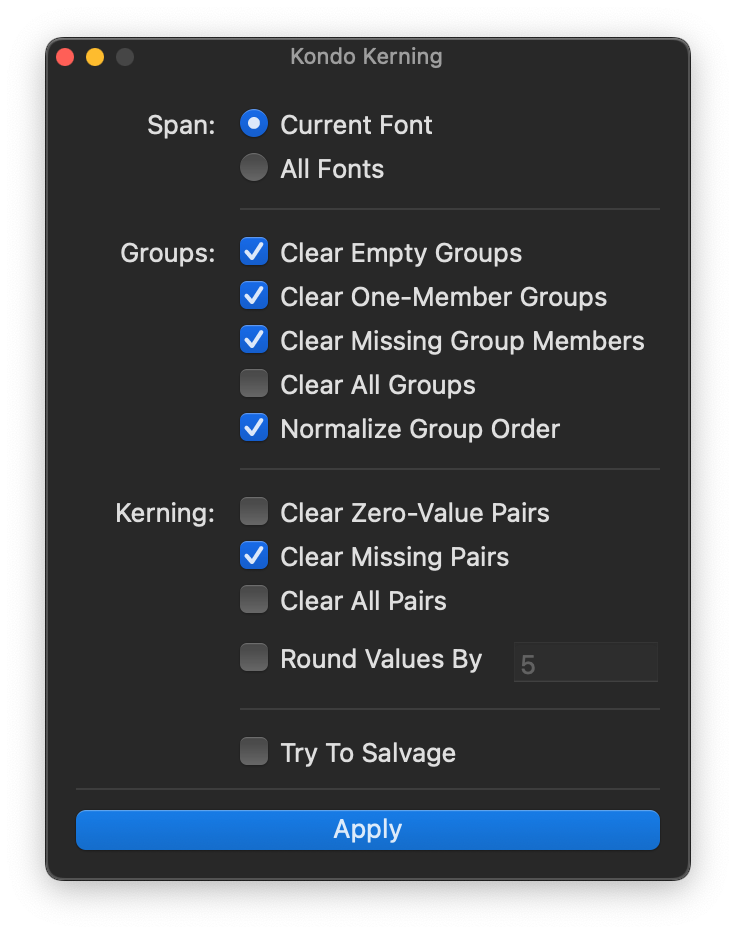
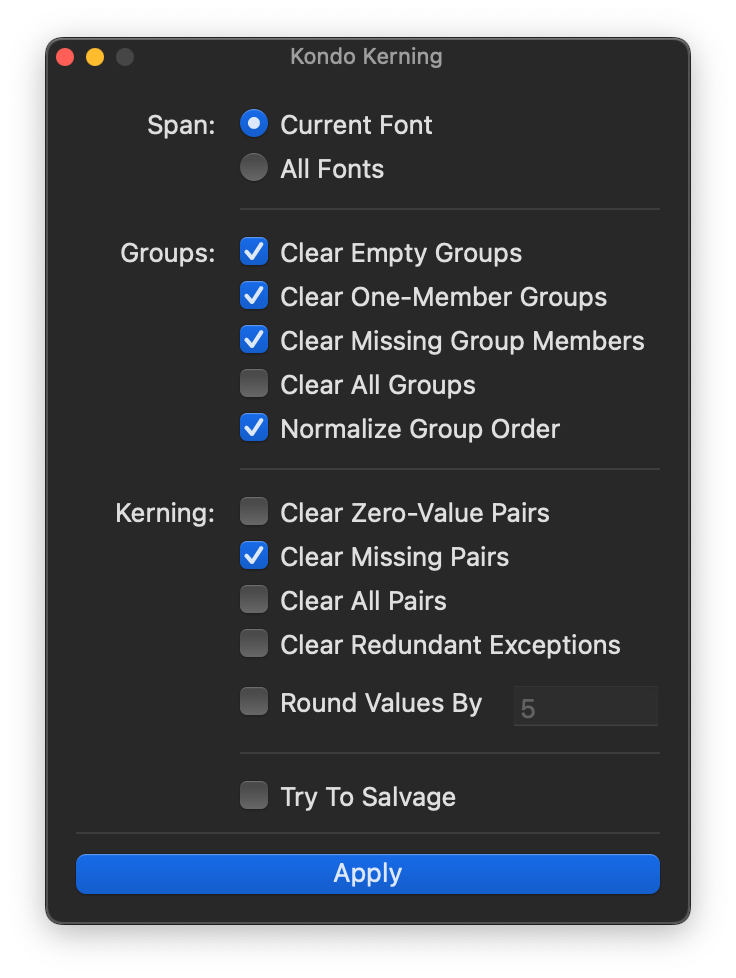
v1.0 public
- Clear redundant exceptions. Fix https://github.com/ryanbugden/Kondo-Kerning/issues (Thanks https://github.com/typesupply )
- Check single member exists in font before flattening it
- Remember previous window settings
- Improve log
- Update docs
- Version up

diff --git a/source/lib/tools.py b/source/lib/tools.py
@@ -7,31 +7,50 @@ def _kondo_round(x, base=5):
 
 
 def _is_exception(font, pair):
+    """
+    Returns a tuple of booleans, representing on
+    each side whether it’s an exception.
+    """
+    exceptions = []
     for name, groups in zip(
         pair,
         (font.groups.side1KerningGroups, font.groups.side2KerningGroups),
     ):
         # If the side is not a group, and it's IN a group, it's an exception
-        if name not in font.groups and any(
+        is_exception = name not in font.groups and any(
             name in members for members in groups.values()
-        ):
-            return True
-    return False
+        )
+        exceptions.append(is_exception)
+
+    return tuple(exceptions)
+
+
+def _get_groups_for_glyph(font, glyph_name):
+    """
+    Returns a tuple of two groups for a given glyph.
+    If it doesn’t have a group on a given side, returns None.
+    """
+    group_names = font.groups.findGlyph(glyph_name)
+    side_1, side_2 = None, None
+    for group_name in group_names:
+        if group_name in font.groups.side1KerningGroups:
+            side_1 = group_name
+        elif group_name in font.groups.side2KerningGroups:
+            side_2 = group_name
+
+    return side_1, side_2
 
 
 def _resolve_pair(font, pair, salvage=True):
     resolved = []
-
     # Keep valid names; try recovering invalid groups as glyphs.
     for name in pair:
         is_group = name.startswith("public.kern")
-
         # Check validity of group name
         if is_group:
             valid = name in font.groups and any(
                 member in font for member in font.groups[name]
             )
-
         # Check validity of glyph name
         else:
             valid = name in font
@@ -40,7 +59,6 @@ def _resolve_pair(font, pair, salvage=True):
             continue
         if not salvage or not is_group:
             return None
-
         # Try to convert the group name to a glyph name
         parts = name.split(".", 2)
         if len(parts) != 3 or parts[2] not in font:
@@ -105,6 +123,7 @@ def _process_kerning(
     clear_zero_kerning=False,
     clear_missing_kerning=True,
     clear_all_kerning=False,
+    clear_redundant_exceptions=False,
     round_value=None,
     salvage=False,
     report=True,
@@ -131,15 +150,15 @@ def _process_kerning(
                 continue
 
             if replacement is None:
-                log(f"\t🫧 Kerning: Deleting invalid pair {pair}.")
+                log(f"\t🫧 Deleting invalid pair {pair}.")
             elif replacement in font.kerning:
                 log(
-                    f"\t🫧 Kerning: Deleting {pair}. "
+                    f"\t🫧 Deleting {pair}. "
                     f"Keeping existing value for {replacement}."
                 )
             else:
                 font.kerning[replacement] = value
-                log(f"\t🔀 Kerning: Reassigning {pair} → {replacement}.")
+                log(f"\t🔀 Reassigning {pair} → {replacement}.")
 
             del font.kerning[pair]
 
@@ -152,15 +171,62 @@ def _process_kerning(
             for pair, value in list(font.kerning.items()):
                 font.kerning[pair] = _kondo_round(value, round_value)
 
+    if clear_redundant_exceptions:
+        # Redundant exception logic by Tal Leming and reformatted for Kondo Kerning."
+        log(f"👀 Kerning: Looking for redundant exceptions.")
+
+        for pair in list(font.kerning.keys()):
+            if pair not in font.kerning:
+                continue
+            side_1, side_2 = pair
+            exceptions = _is_exception(font, pair)
+            if not any(exceptions):
+                continue
+            value = font.kerning[pair]
+            priority_key = None
+            # Both sides are exceptions
+            if all(exceptions):
+                side_1_group, side_2_group = (
+                    _get_groups_for_glyph(font, side_1)[0],
+                    _get_groups_for_glyph(font, side_2)[1],
+                )
+                if (side_1, side_2_group) in font.kerning:
+                    priority_key = (side_1, side_2_group)
+                elif (side_1_group, side_2) in font.kerning:
+                    priority_key = (side_1_group, side_2)
+                elif (side_1_group, side_2_group) in font.kerning:
+                    priority_key = (side_1_group, side_2_group)
+            # First side is an exception
+            elif exceptions[0]:
+                side_1_group = _get_groups_for_glyph(font, side_1)[0]
+                if (side_1_group, side_2) in font.kerning:
+                    priority_key = (side_1_group, side_2)
+            # Second side is an exception
+            elif exceptions[1]:
+                side_2_group = _get_groups_for_glyph(font, side_2)[1]
+                if (side_1, side_2_group) in font.kerning:
+                    priority_key = (side_1, side_2_group)
+            priority_value = (
+                font.kerning[priority_key] if priority_key is not None else None
+            )
+            # Remove exceptions that match their fallback, including implied zero.
+            if value == priority_value or (value == 0 and priority_value is None):
+                log(f"\t🫧 Deleting redundant exception {pair}   Value: {value}.")
+                if priority_key is None:
+                    log("\t\t🪹 No fallback pair.")
+                else:
+                    log(f"\t\t📌 Keeping {priority_key}   Value: {priority_value}.")
+                del font.kerning[pair]
+
     # Clear zero values
     if clear_zero_kerning:
         log(f"👀 Kerning: Looking for zero-value pairs that aren’t exceptions.")
         for pair, value in list(font.kerning.items()):
             if value == 0:
-                if _is_exception(font, pair):
-                    log(f"\t⏭ Kerning: Ignoring {pair}   Value: {value}. (Exception)")
+                if any(_is_exception(font, pair)):
+                    log(f"\t⏭ Ignoring {pair}   Value: {value}. (Exception)")
                 else:
-                    log(f"\t🫧 Kerning: Removing {pair}   Value: {value}.")
+                    log(f"\t🫧 Removing {pair}   Value: {value}.")
                     font.kerning.pop(pair)
 
 
@@ -187,9 +253,7 @@ def _process_groups(
                 if member in font.keys():
                     new_members.append(member)
                 else:
-                    log(
-                        f"\t🫧 Groups: Removing group member {member} from group {group}."
-                    )
+                    log(f"\t🫧 Removing group member {member} from group {group}.")
             font.groups[group] = new_members
 
     # Delete empty groups. If clearing all groups, use this to try and salvage, too.
@@ -198,22 +262,22 @@ def _process_groups(
         for group, members in list(font.groups.items()):
             if any(member in font for member in members):
                 continue
-            log(f"\t🫧 Groups: Deleting group {group}. It was empty...")
+            log(f"\t🫧 Deleting group {group}. It was empty...")
             # Salvage or delete each pair referencing this empty group
             for pair, value in list(font.kerning.items()):
                 if group not in pair:
                     continue
                 replacement = _resolve_pair(font, pair, salvage)
                 if replacement is None:
-                    log(f"\t🫧 Kerning: Deleting invalid pair {pair}.")
+                    log(f"\t🫧 Deleting invalid pair {pair}.")
                 elif replacement in font.kerning:
                     log(
-                        f"\t🫧 Kerning: Deleting {pair}. "
+                        f"\t🫧 Deleting pair {pair}. "
                         f"Keeping existing value for {replacement}."
                     )
                 else:
                     font.kerning[replacement] = value
-                    log(f"\t🔀 Kerning: Reassigning {pair} → {replacement}.")
+                    log(f"\t🔀 Reassigning pair {pair} → {replacement}.")
                 # Always remove the original reference to the empty group
                 font.kerning.pop(pair)
             # Remove the group after its individual pairs are taken care of
@@ -230,10 +294,10 @@ def _process_groups(
     if clear_single_member_groups:
         log(f"👀 Groups: Looking for single-member groups.")
         for group, members in list(font.groups.items()):
-            if len(members) == 1:
+            if len(members) == 1 and members[0] in font:
                 flattened_kerning = _flatten_kerning(font, group)
                 log(
-                    f"\t🫧 Groups: Deleting group {group}.  It had one member. Flattened its kerning:"
+                    f"\t🫧 Deleting group {group}.  It had one member. Flattened its kerning:"
                 )
                 # Show flattened kerning with 2 tabs
                 if report:
@@ -260,7 +324,7 @@ def _process_groups(
             # Update and report only groups whose order changed
             if sorted_members != list(members):
                 font.groups[group] = sorted_members
-                log(f"\t↩ Groups: Sorting members of group {group}.")
+                log(f"\t↩ Sorting members of group {group}.")
 
 
 def kondo_kerning(
@@ -272,6 +336,7 @@ def kondo_kerning(
     normalize_group_order=True,
     clear_zero_kerning=False,
     clear_missing_kerning=True,
+    clear_redundant_exceptions=False,
     clear_all_kerning=False,
     round_value=None,
     salvage=False,
@@ -301,6 +366,7 @@ def kondo_kerning(
         (
             clear_zero_kerning,
             clear_missing_kerning,
+            clear_redundant_exceptions,
             clear_all_kerning,
             round_value is not None,
         )
@@ -309,6 +375,7 @@ def kondo_kerning(
             font,
             clear_zero_kerning=clear_zero_kerning,
             clear_missing_kerning=clear_missing_kerning,
+            clear_redundant_exceptions=clear_redundant_exceptions,
             clear_all_kerning=clear_all_kerning,
             round_value=round_value,
             salvage=salvage,

diff --git a/source/lib/main.py b/source/lib/main.py
@@ -3,9 +3,13 @@
 
 from importlib import reload
 import ezui
+from mojo.extensions import setExtensionDefault, getExtensionDefault
 import tools
 
 reload(tools)
+
+
+EXT_KEY = "com.ryanbugden.kondoKerning"
 
 
 class KondoKerning(ezui.WindowController):
@@ -33,6 +37,7 @@ class KondoKerning(ezui.WindowController):
         > [ ] Clear Zero-Value Pairs         @clearZeroValueKernsCheckbox
         > [X] Clear Missing Pairs            @clearMissingKerningCheckbox
         > [ ] Clear All Pairs                @clearAllKerningCheckbox
+        > [ ] Clear Redundant Exceptions     @clearRedundantExceptionsCheckbox
         > * HorizontalStack
         >> [ ] Round Values By               @roundKerningCheckbox
         >> [_5_]                             @roundValueTextField
@@ -62,36 +67,22 @@ class KondoKerning(ezui.WindowController):
         )
         self.w.getNSWindow().setTitlebarAppearsTransparent_(True)
         self.w.setDefaultButton(self.w.getItem("applyButton"))
-        # All group checkboxes except for All
-        self.group_checkboxes = [
-            self.w.getItem(item)
-            for item in self.w.getItems().keys()
-            if "group" in item.lower()
-            and "checkbox" in item.lower()
-            and "all" not in item.lower()
-        ]
-        # All kern checkboxes except for All
-        self.kern_checkboxes = [
-            self.w.getItem(item)
-            for item in self.w.getItems().keys()
-            if "kern" in item.lower()
-            and "checkbox" in item.lower()
-            and "all" not in item.lower()
-        ]
+
+        # Restore UI values
+        try:
+            self.w.setItemValues(
+                getExtensionDefault(EXT_KEY, fallback=self.w.getItemValues())
+            )
+        except KeyError:
+            pass
+
         self.roundKerningCheckboxCallback(self.w.getItem("roundKerningCheckbox"))
 
     def started(self):
         self.w.open()
 
-    # # Automatically uncheck other boxes
-    # def clearAllGroupsCheckboxCallback(self, sender):
-    #     if sender.get():
-    #         for checkbox in self.group_checkboxes:
-    #             checkbox.set(False)
-    # def clearAllKerningCheckboxCallback(self, sender):
-    #     if sender.get():
-    #         for checkbox in self.kern_checkboxes:
-    #             checkbox.set(False)
+    def destroy(self):
+        setExtensionDefault(EXT_KEY, self.w.getItemValues())
 
     def roundKerningCheckboxCallback(self, sender):
         self.w.getItem("roundValueTextField").enable(sender.get())
@@ -115,6 +106,9 @@ class KondoKerning(ezui.WindowController):
             "clearSingleMemberGroupsCheckbox"
         ).get()
         clear_missing_kerning = self.w.getItem("clearMissingKerningCheckbox").get()
+        clear_redundant_exceptions = self.w.getItem(
+            "clearRedundantExceptionsCheckbox"
+        ).get()
         clear_all_kerning = self.w.getItem("clearAllKerningCheckbox").get()
         salvage = self.w.getItem("tryToSalvageCheckbox").get()
         normalize_group_order = self.w.getItem("normalizeGroupOrder").get()
@@ -132,6 +126,7 @@ class KondoKerning(ezui.WindowController):
                 normalize_group_order=normalize_group_order,
                 clear_zero_kerning=clear_zero_kerning,
                 clear_missing_kerning=clear_missing_kerning,
+                clear_redundant_exceptions=clear_redundant_exceptions,
                 clear_all_kerning=clear_all_kerning,
                 round_value=round_value,
                 salvage=salvage,

diff --git a/README.md b/README.md
@@ -81,6 +81,7 @@ RFont.kondoKerning(
     # Kerning
     clear_zero_kerning=False,
     clear_missing_kerning=True,
+    clear_redundant_exceptions=False,
     clear_all_kerning=False,
     round_value=None,
     # General
@@ -120,6 +121,10 @@ Clean up kerning and groups in a font. Changes are applied directly to the font 
 `clear_missing_kerning`
 
 **Boolean**. Remove pairs involving missing glyphs, missing groups, or groups with no glyphs present in the font. Set `salvage=True` to attempt recovery instead.
+
+`clear_redundant_exceptions`
+
+**Boolean**. Remove exceptions that match their less-specific counterpart’s value, including zero-value exceptions with no fallback.
 
 `clear_all_kerning`
 
